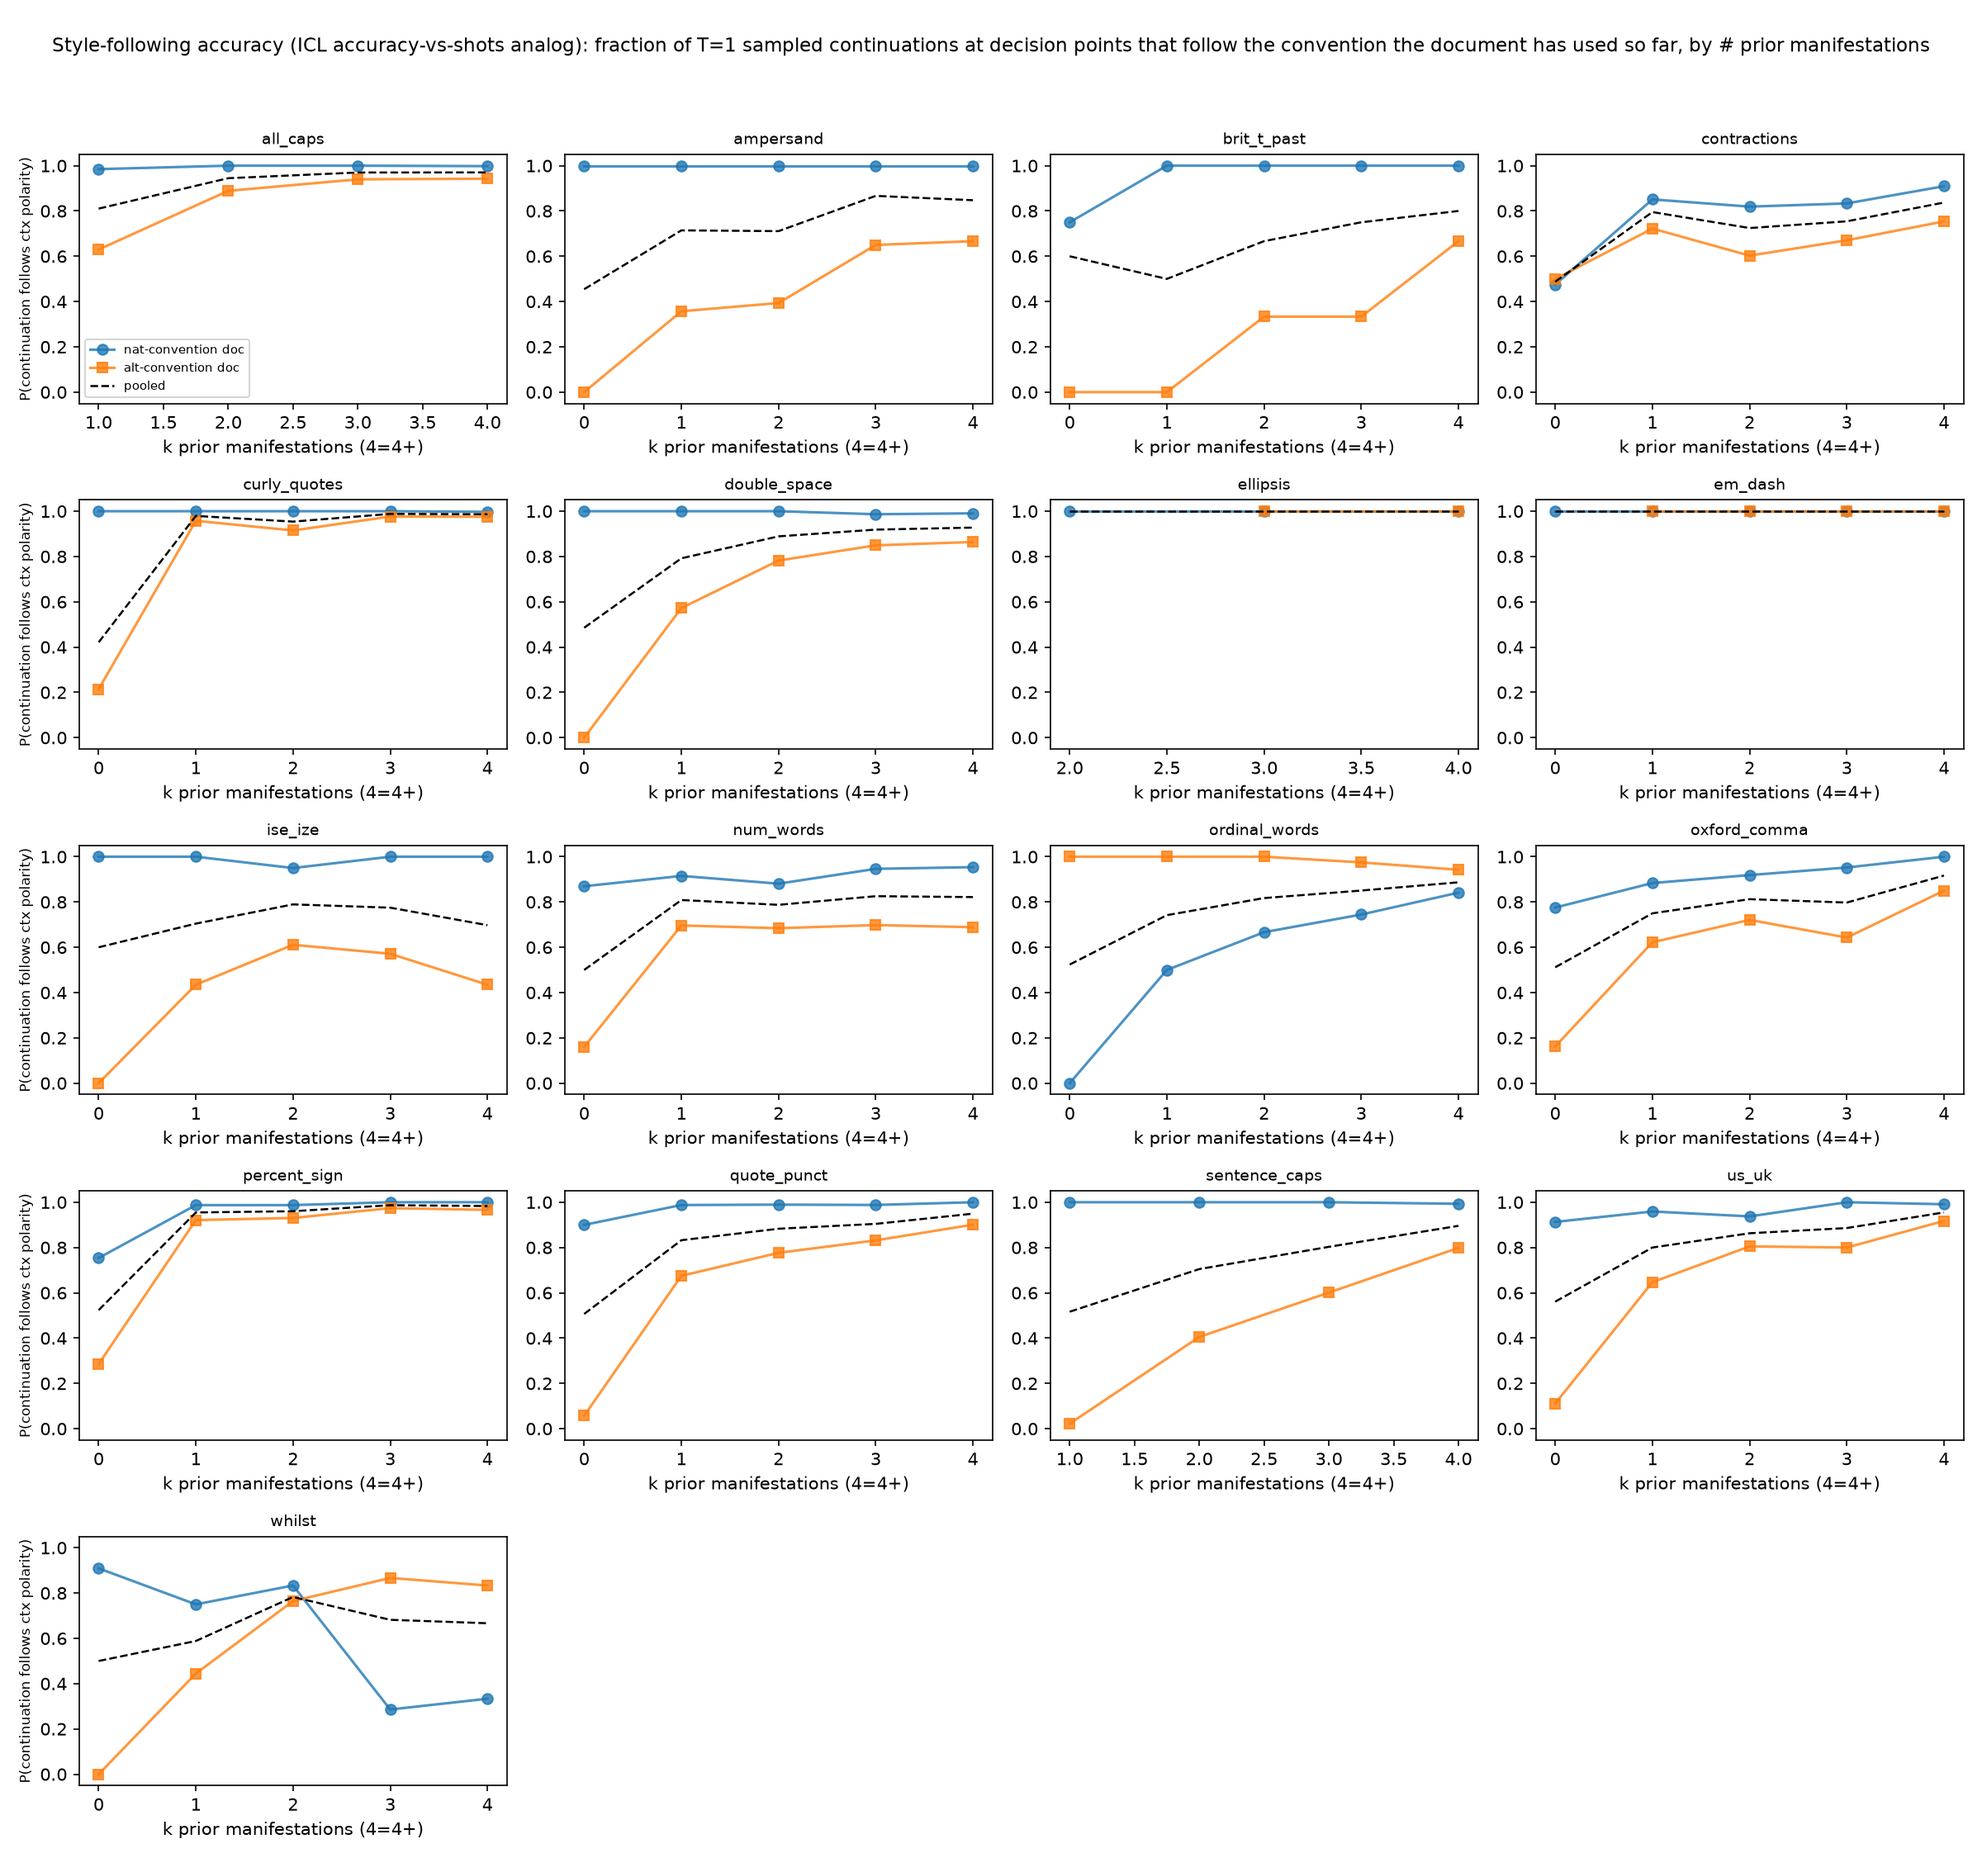
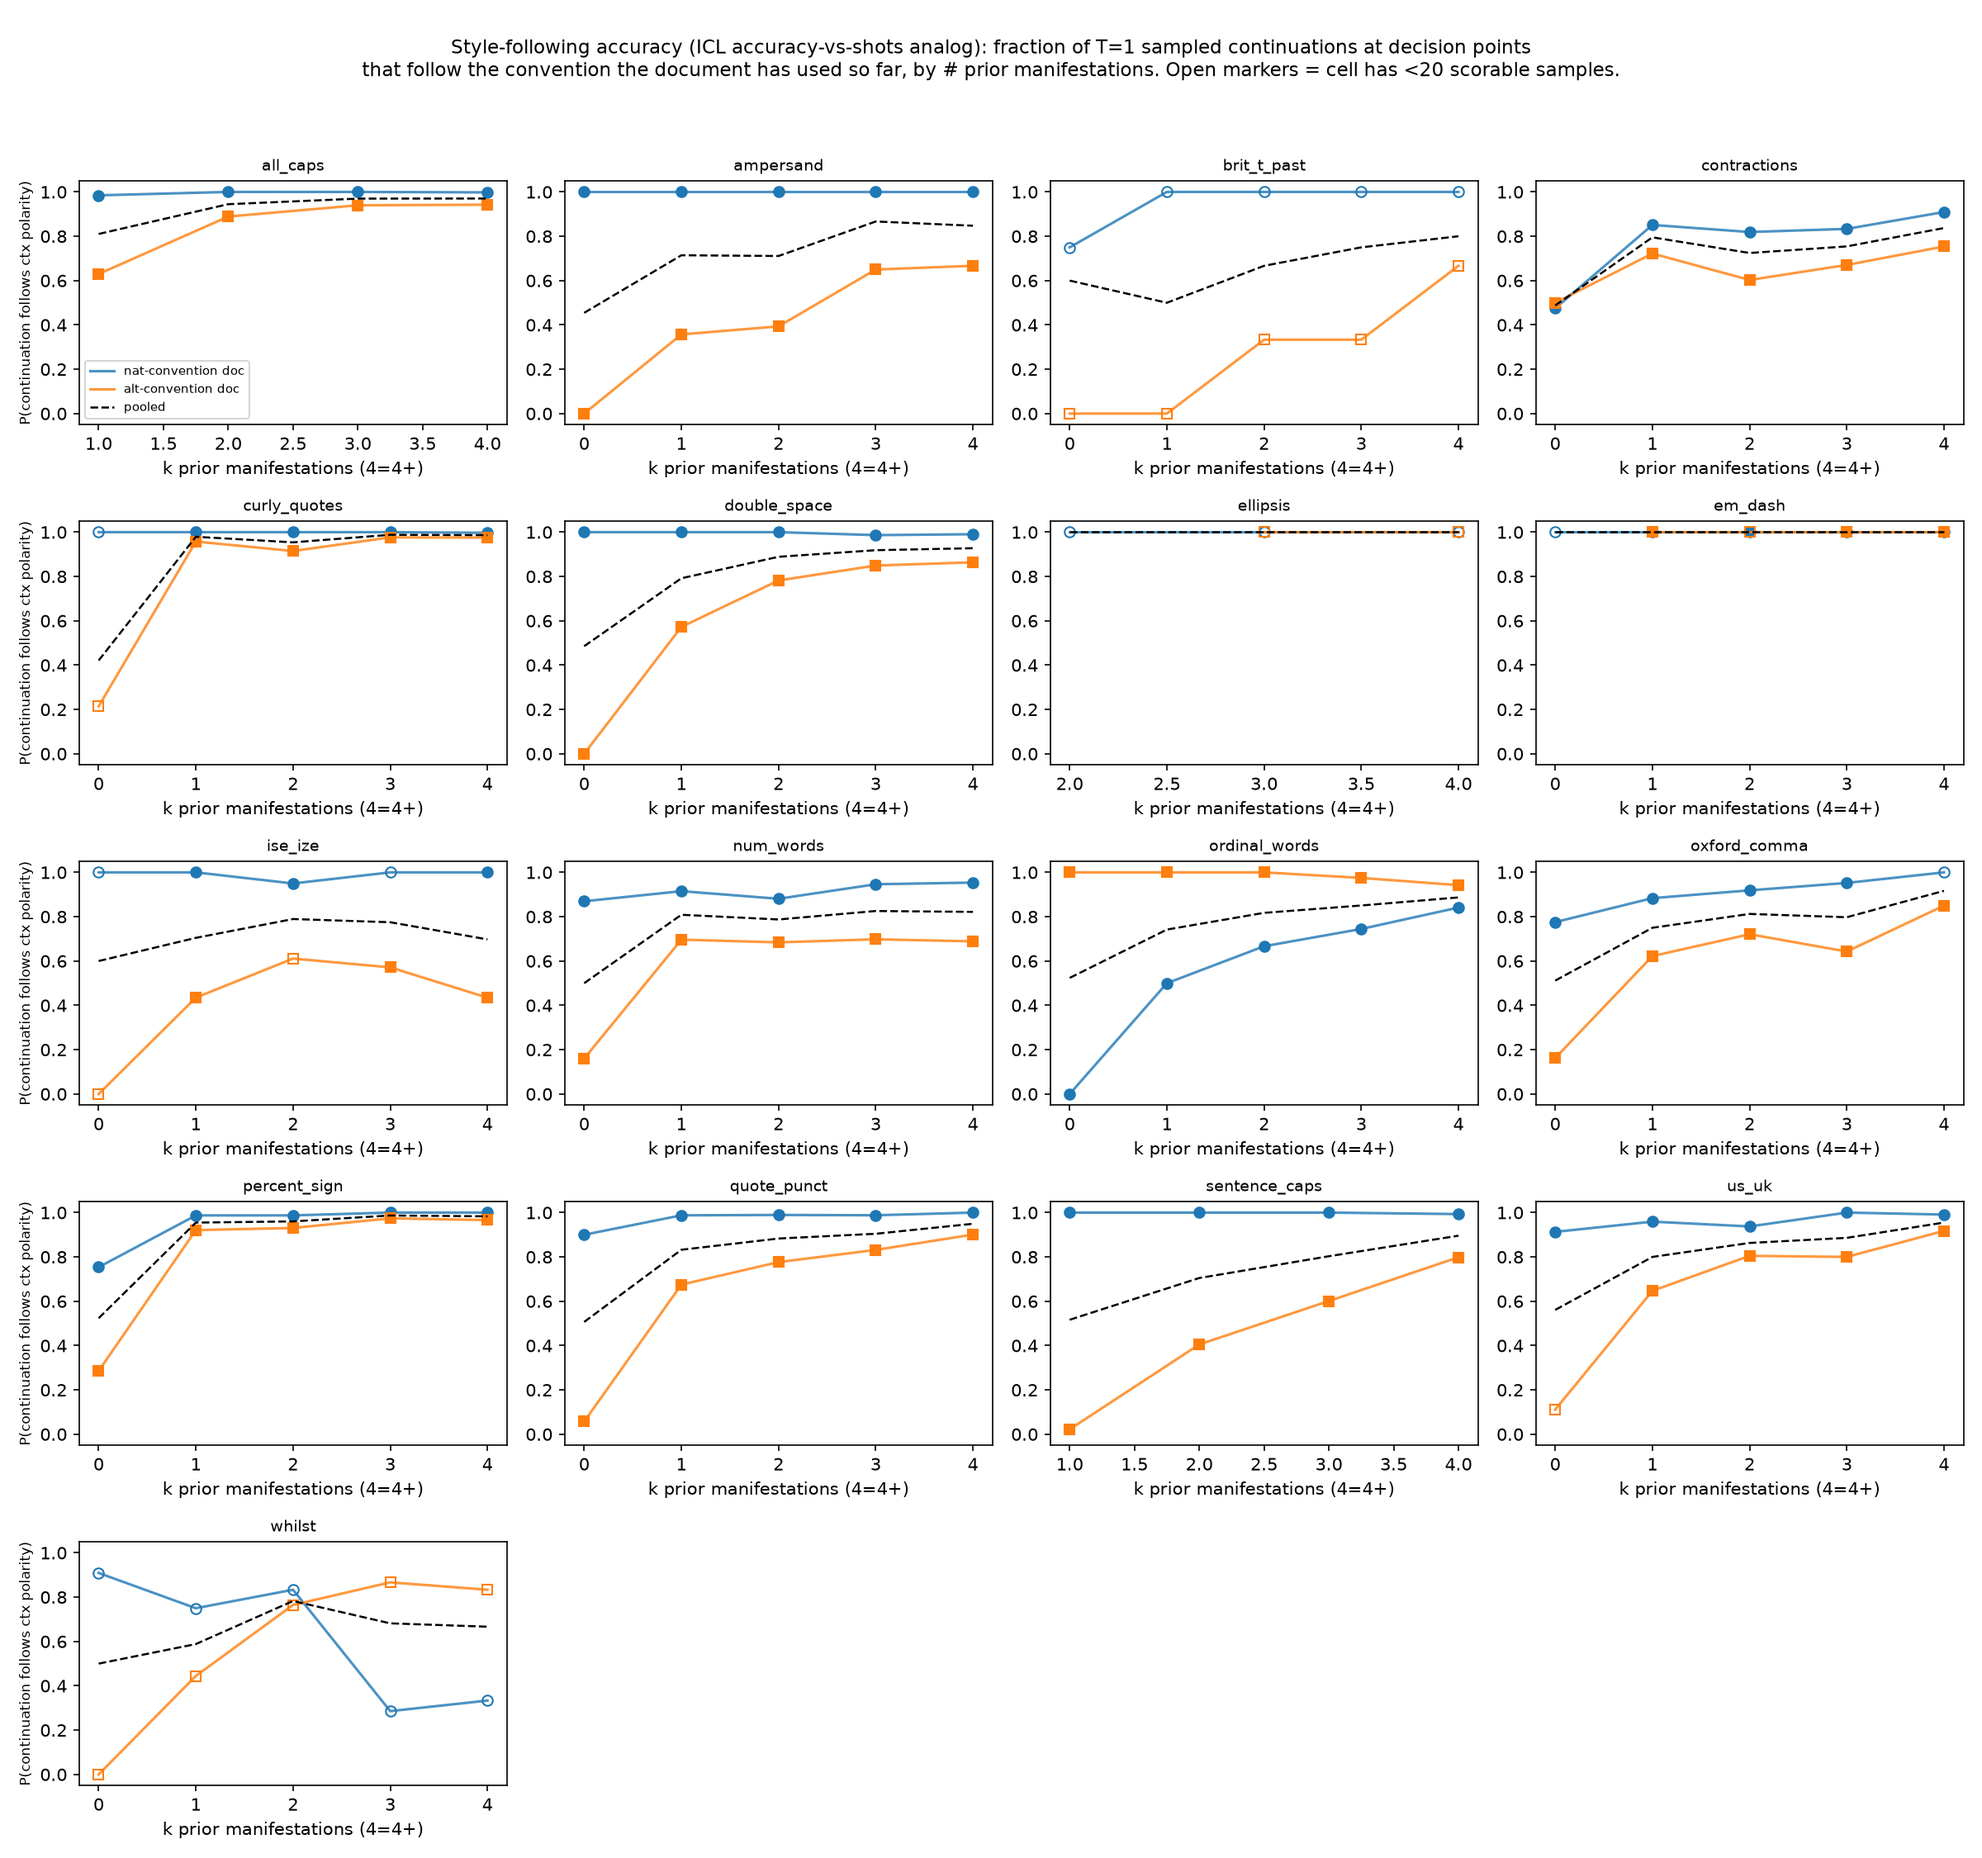
accuracy_by_k: open markers for thin cells (<20 scorable), wrapped title

diff --git a/src/sandbox/ext_styleprops/plot_prescreen.py b/src/sandbox/ext_styleprops/plot_prescreen.py
@@ -98,16 +98,23 @@ def main():
         if pi == 0:
             a.legend(fontsize=7)
 
-        # accuracy analog: adherence to the context's own polarity, by k
+        # accuracy analog: adherence to the context's own polarity, by k.
+        # cells with <20 scorable samples get open markers (thin-data flag).
         a = ax3[pi // ncol][pi % ncol]
-        for pol, style, lab in (("nat", "o-", "nat-convention doc"),
-                                ("alt", "s-", "alt-convention doc")):
-            ys = []
+        for pol, mk, col, lab in (("nat", "o", "#1f77b4", "nat-convention doc"),
+                                  ("alt", "s", "#ff7f0e", "alt-convention doc")):
+            ys, ms = [], []
             for kb in K_BINS:
                 sub = [r for r in recs if r["pol"] == pol and kbin(r["k"]) == kb]
-                v, _ = rate_ctx(sub)
+                v, m = rate_ctx(sub)
                 ys.append(v)
-            a.plot(K_BINS, ys, style, label=lab, alpha=0.8)
+                ms.append(m)
+            a.plot(K_BINS, ys, "-", color=col, alpha=0.8, label=lab)
+            solid = [i for i in range(len(ys)) if ms[i] >= 20]
+            thin = [i for i in range(len(ys)) if 0 < ms[i] < 20]
+            a.plot([K_BINS[i] for i in solid], [ys[i] for i in solid], mk, color=col)
+            a.plot([K_BINS[i] for i in thin], [ys[i] for i in thin], mk, color=col,
+                   mfc="none")
         ys_pool = []
         for kb in K_BINS:
             sub = [r for r in recs if kbin(r["k"]) == kb]
@@ -166,9 +173,9 @@ def main():
         ax2[k // ncol][k % ncol].axis("off")
         ax3[k // ncol][k % ncol].axis("off")
     fig3.suptitle("Style-following accuracy (ICL accuracy-vs-shots analog): fraction of "
-                  "T=1 sampled continuations at decision points that follow the "
-                  "convention the document has used so far, by # prior manifestations",
-                  fontsize=11)
+                  "T=1 sampled continuations at decision points\nthat follow the "
+                  "convention the document has used so far, by # prior manifestations. "
+                  "Open markers = cell has <20 scorable samples.", fontsize=11)
     fig1.suptitle("Sampled adherence at decision points: fraction of T=1 continuations "
                   "classified as the nat pole, under nat-polarity vs alt-polarity context "
                   "(dashed = their difference, the context separation)", fontsize=11)
